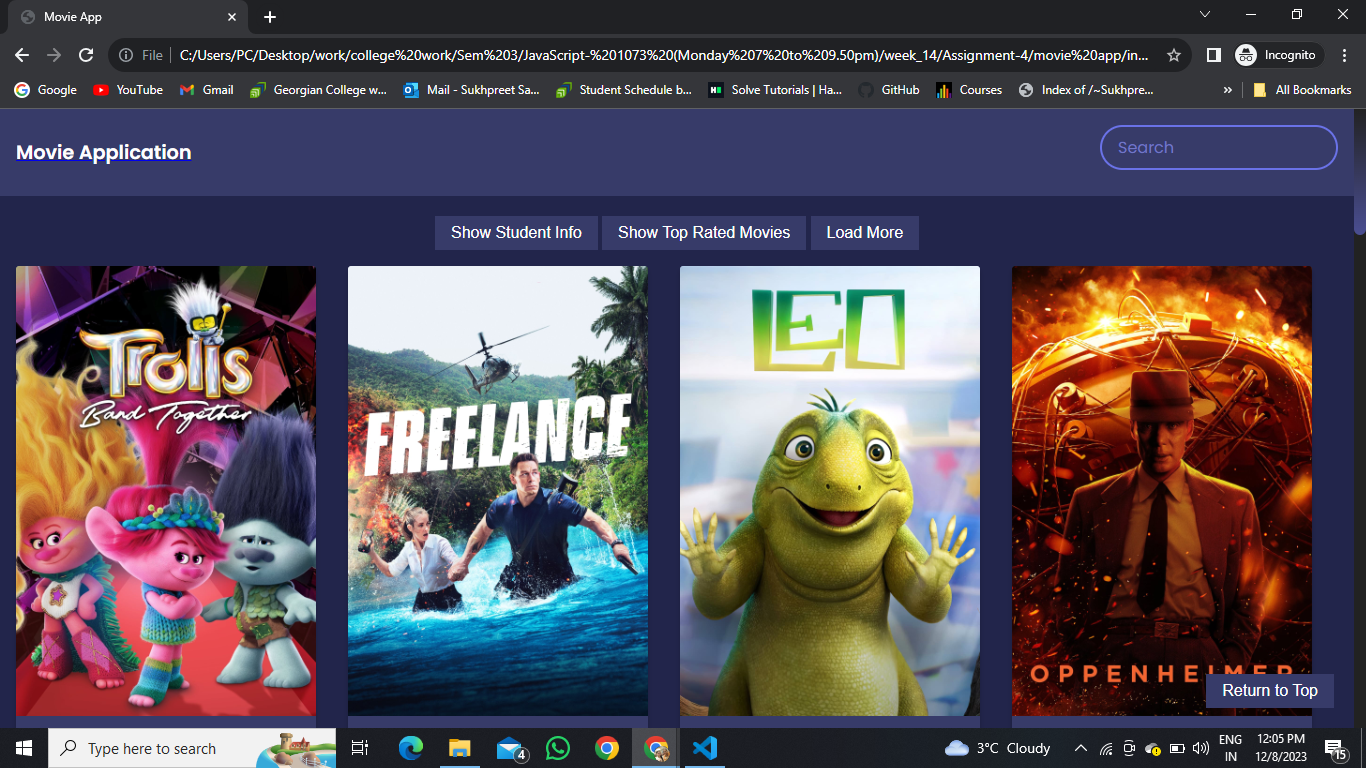
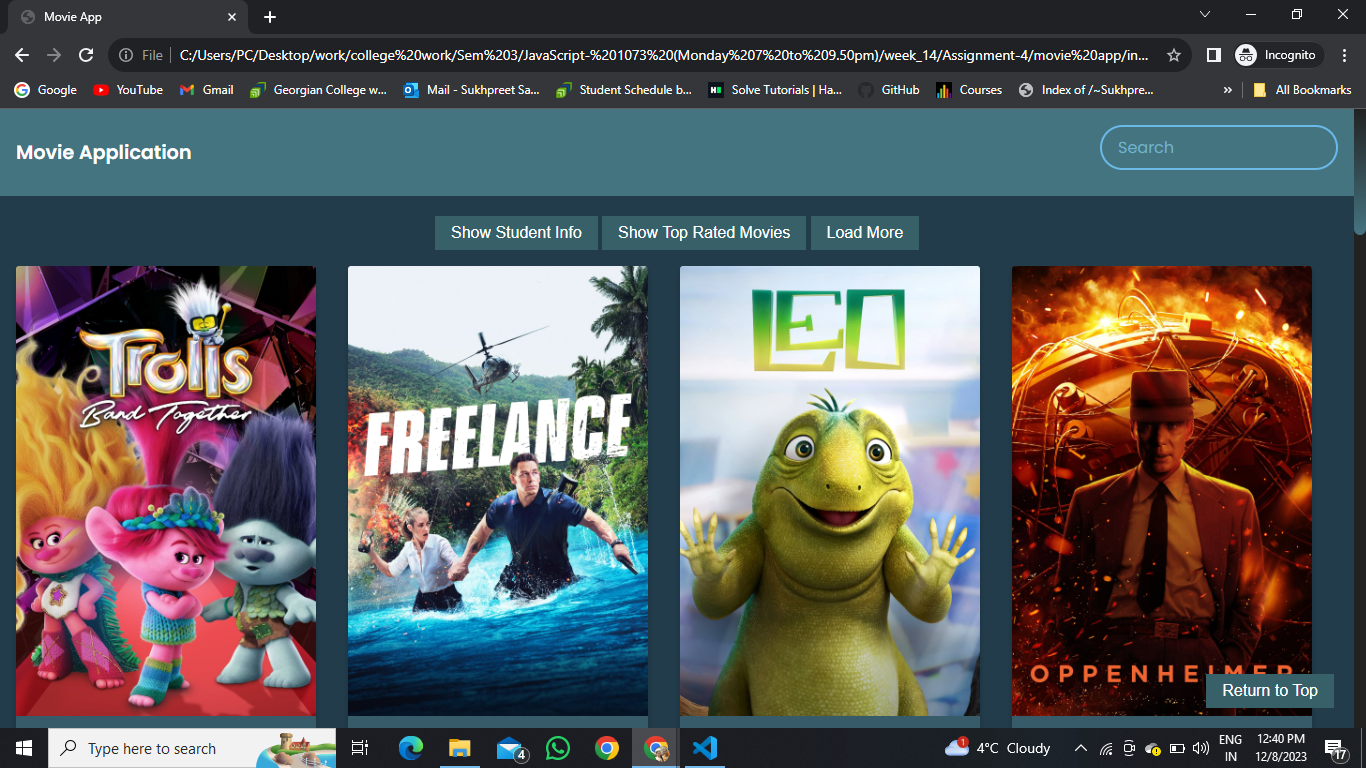
updated

Changed region(s): [[0.0, 0.125, 1.0, 0.3438], [0.0, 0.875, 0.9839, 0.9688]]

diff --git a/css/style.css b/css/style.css
@@ -8,14 +8,19 @@
 
 /* Body styles */
 body {
-    background-color: #22254b;
+    background-color: #223c4b;
     font-family: "Poppins", sans-serif;
     margin: 0;
 }
 
+/* link styles */
+a{
+    text-decoration: none;
+}
+
 /* Header styles */
 header {
-    background-color: #373b69;
+    background-color: #457481;
     display: flex;
     justify-content: space-between;
     padding: 1rem;
@@ -31,7 +36,7 @@ h1 {
 /* Search input styles */
 .search {
     background-color: transparent;
-    border: 2px solid #6a72e8;
+    border: 2px solid #6ab9e8;
     border-radius: 50px;
     color: #fff;
     font-family: inherit;
@@ -40,11 +45,11 @@ h1 {
 }
 
 .search::placeholder {
-    color: #7378c5;
+    color: #73b2c5;
 }
 
 .search:focus {
-    background-color: #22254b;
+    background-color: #22414b;
     outline: none;
 }
 
@@ -66,7 +71,7 @@ div {
 #showTopRated,
 button#loadMore,
 button#returnToTop {
-    background-color: #373b69;
+    background-color: #376069;
     color: #fff;
     border: none;
     padding: 0.5rem 1rem;
@@ -78,7 +83,7 @@ button#returnToTop {
 #showTopRated:hover,
 button#loadMore:hover,
 button#returnToTop:hover {
-    background-color: #22254b;
+    background-color: #22404b;
 }
 
 /* Main container styles */
@@ -89,7 +94,7 @@ main {
 
 /* Movie card styles */
 .movie {
-    background-color: #373b69;
+    background-color: #375b69;
     border-radius: 3px;
     box-shadow: 0 4px 5px rgba(0, 0, 0, 0.2);
     overflow: hidden;
@@ -118,7 +123,7 @@ main {
 
 /* Movie rating styles */
 .movie-info span {
-    background-color: #22254b;
+    background-color: #22404b;
     border-radius: 3px;
     font-weight: bold;
     padding: 0.25rem 0.5rem;
@@ -138,7 +143,9 @@ main {
 
 /* Overview styles */
 .overview {
-    background-color: #fff;
+    border-radius: 2rem 0;
+    background-color: #000;
+    color: #fefefe;
     padding: 2rem;
     position: absolute;
     max-height: 100%;
@@ -172,7 +179,7 @@ body::-webkit-scrollbar {
 }
 
 body::-webkit-scrollbar-thumb {
-    background: linear-gradient(180deg, #222, #4a4e92);
+    background: linear-gradient(180deg, #222, #457481);
     border-radius: 10px;
 }
 
